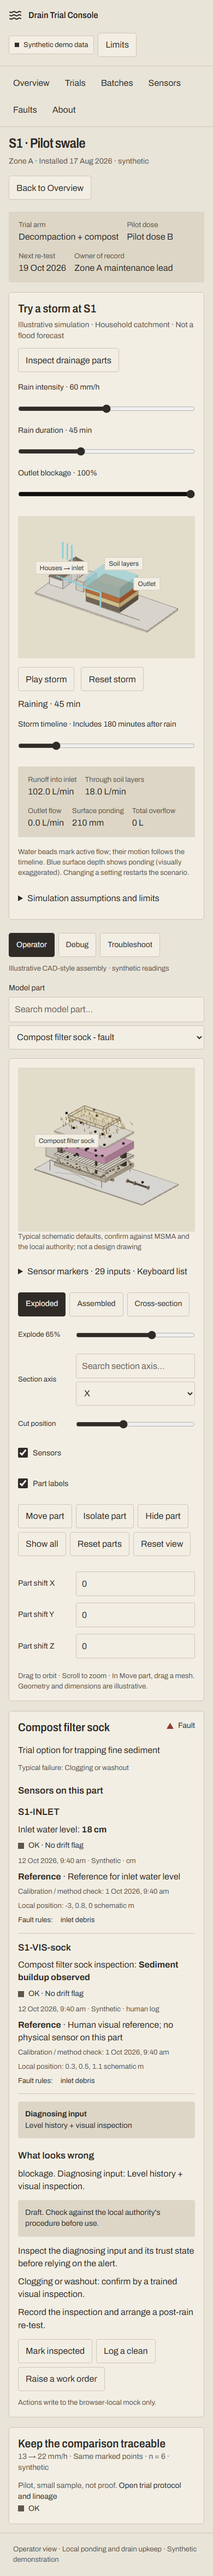
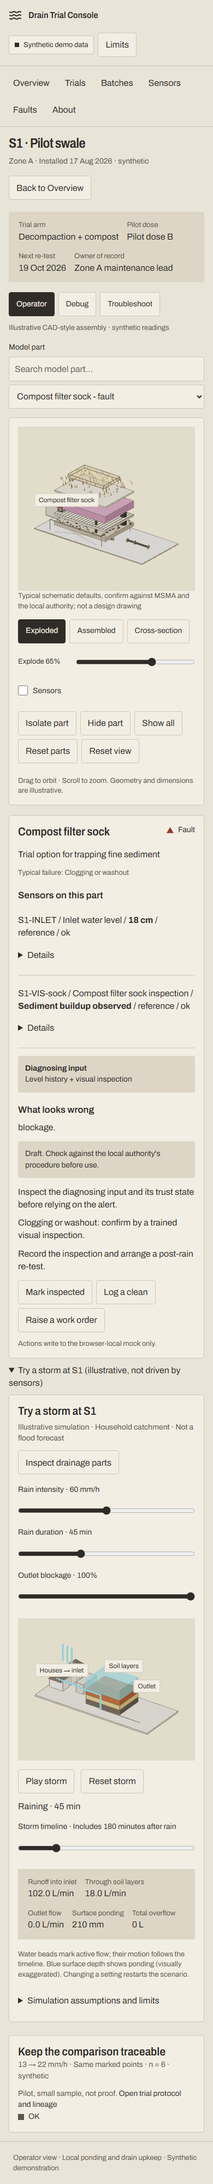
Lead detail pages with parts and simplify Operator controls

diff --git a/app/src/components/ModelControls.tsx b/app/src/components/ModelControls.tsx
@@ -1,4 +1,3 @@
-import SearchableSelect from './SearchableSelect';
 import type { Dispatch, SetStateAction } from 'react';
 import type { PartId } from '../api/types';
 import type { Assembly, Offsets, ViewMode } from '../three/DrainScene';
@@ -10,8 +9,8 @@ export interface ControlProps {
   setAssembly: Dispatch<SetStateAction<Assembly>>;
   explode: number;
   setExplode: Dispatch<SetStateAction<number>>;
-  cutAxis: 'X' | 'Z';
-  setCutAxis: Dispatch<SetStateAction<'X' | 'Z'>>;
+  cutAxis: 'X' | 'Y' | 'Z';
+  setCutAxis: Dispatch<SetStateAction<'X' | 'Y' | 'Z'>>;
   cutPosition: number;
   setCutPosition: Dispatch<SetStateAction<number>>;
   offsets: Offsets;
@@ -90,21 +89,7 @@ export function AssemblyControls({
           }}
         />
       </div>
-      <div className="field">
-        <label htmlFor="cut-axis">Section axis</label>
-        <SearchableSelect
-          label="Section axis"
-          id="cut-axis"
-          value={cutAxis}
-          onChange={(e) => {
-            setCutAxis(e.target.value as 'X' | 'Z');
-            setAssembly('section');
-          }}
-        >
-          <option>X</option>
-          <option>Z</option>
-        </SearchableSelect>
-      </div>
+      {mode === 'Debug' && <><div className="field"><span>Section axis</span><div className="segments" aria-label="Section axis">{(['X', 'Y', 'Z'] as const).map(axis => <button key={axis} aria-pressed={cutAxis === axis} onClick={() => { setCutAxis(axis); setAssembly('section'); }}>{axis}</button>)}</div></div>
       <div className="field">
         <label htmlFor="cut-position">Cut position</label>
         <input
@@ -121,6 +106,7 @@ export function AssemblyControls({
           }}
         />
       </div>
+      </>}
       <label className="check">
         <input
           type="checkbox"
@@ -129,10 +115,10 @@ export function AssemblyControls({
         />
         Sensors
       </label>
-      <label className="check">
+      {mode === 'Debug' && <label className="check">
         <input type="checkbox" checked={labels} onChange={(e) => setLabels(e.target.checked)} />
         Part labels
-      </label>
+      </label>}
       {mode === 'Debug' && (
         <div className="inline">
           <label className="check">
@@ -154,6 +140,7 @@ export function AssemblyControls({
   );
 }
 export function PartControls({
+  mode,
   selected,
   offsets,
   setOffsets,
@@ -168,9 +155,9 @@ export function PartControls({
     <>
       {' '}
       <div className="actions">
-        <button aria-pressed={move} onClick={() => setMove(!move)}>
+        {mode === 'Debug' && <button aria-pressed={move} onClick={() => setMove(!move)}>
           Move part
-        </button>
+        </button>}
         <button aria-pressed={isolate} onClick={() => setIsolate(!isolate)}>
           Isolate part
         </button>
@@ -194,7 +181,7 @@ export function PartControls({
         </button>
         <button onClick={() => setReset((v) => v + 1)}>Reset view</button>
       </div>
-      <div className="coordinate-grid">
+      {mode === 'Debug' && <div className="coordinate-grid">
         {(['X', 'Y', 'Z'] as const).map((axis, i) => (
           <label className="field" key={axis}>
             Part shift {axis}
@@ -215,9 +202,9 @@ export function PartControls({
             />
           </label>
         ))}
-      </div>
+      </div>}
       <p className="scene-caption">
-        Drag to orbit · Scroll to zoom · In Move part, drag a mesh. Geometry and dimensions are
+        Drag to orbit · Scroll to zoom. Geometry and dimensions are
         illustrative.
       </p>
     </>

diff --git a/app/src/components/ModelWorkspace.tsx b/app/src/components/ModelWorkspace.tsx
@@ -25,14 +25,14 @@ export default function ModelWorkspace({
   kind?: 'drainage' | 'compost';
 }) {
   const [params] = useSearchParams();
-  const [showSensors, setShowSensors] = useState(true);
+  const [showSensors, setShowSensors] = useState(false);
   const [partSearch, setPartSearch] = useState('');
   const select = useSelection((s) => s.selectPart),
     selected = useSelection((s) => s.partId);
   const [mode, setMode] = useState<ViewMode>('Operator'),
     [assembly, setAssembly] = useState<Assembly>('exploded'),
     [explode, setExplode] = useState(65),
-    [cutAxis, setCutAxis] = useState<'X' | 'Z'>('X'),
+    [cutAxis, setCutAxis] = useState<'X' | 'Y' | 'Z'>('X'),
     [cutPosition, setCutPosition] = useState(0),
     [offsets, setOffsets] = useState<Offsets>({}),
     [move, setMove] = useState(false),
@@ -91,7 +91,7 @@ export default function ModelWorkspace({
       <div className="panel-heading">
         <div className="segments">
           {(['Operator', 'Debug', 'Troubleshoot'] as const).map((value) => (
-            <button key={value} aria-pressed={mode === value} onClick={() => setMode(value)}>
+            <button key={value} aria-pressed={mode === value} onClick={() => { setMode(value); setShowSensors(value === 'Debug'); setMove(false); }}>
               {value}
             </button>
           ))}
@@ -158,7 +158,7 @@ export default function ModelWorkspace({
             onMove={(partId, position) =>
               setOffsets((previous) => ({ ...previous, [partId]: position }))
             }
-            move={move}
+            move={mode === 'Debug' && move}
             isolate={isolate}
             hidden={hidden}
             labels={labels}
@@ -167,7 +167,7 @@ export default function ModelWorkspace({
             reset={reset}
           />
           <p className="small">{config.schematic.label}</p>
-          {showSensors && <SensorPositions sensors={sensorMarkers(sensors)} />}
+          {showSensors && <SensorPositions showPositions={mode === 'Debug'} sensors={sensorMarkers(sensors).filter(s => mode === 'Debug' || s.partId === selected)} />}
           <div className="part-settings">
             <AssemblyControls {...controlProps} />
             <PartControls {...controlProps} />

diff --git a/app/src/components/SensorInfo.tsx b/app/src/components/SensorInfo.tsx
@@ -6,7 +6,7 @@ export function SensorTrust({ sensor }: { sensor: Sensor }) {
     <span className="status">
       <span
         aria-hidden="true"
-        className={`status-mark ${sensor.status === 'suspect' ? 'fault' : sensor.status === 'offline' ? 'offline' : 'ok'}`}
+        className={`status-mark ${sensor.status === 'suspect' || sensor.status === 'offline' ? 'offline' : 'ok'}`}
       />
       {sensor.status === 'suspect' ? 'Suspect' : sensor.status === 'offline' ? 'Offline' : 'OK'} ·{' '}
       {sensor.drift === 'none' ? 'No drift flag' : `${sensor.drift} drift`}
@@ -25,7 +25,8 @@ export function SensorValue({ sensor }: { sensor: Sensor }) {
     </>
   );
 }
-export default function SensorInfo({ sensor }: { sensor: Sensor }) {
+export default function SensorInfo({ sensor, compact = false, showPosition = true }: { sensor: Sensor; compact?: boolean; showPosition?: boolean }) {
+  if (compact) return <div className="sensor-info compact-sensor" data-sensor-row={sensor.sensorId}><p><Link to={`/sensors?sensor=${encodeURIComponent(sensor.sensorId)}`}>{sensor.sensorId}</Link> / {sensor.metric} / <strong><SensorValue sensor={sensor} /></strong> / {sensor.role} / {sensor.status}</p><details><summary>Details</summary><SensorInfo sensor={sensor} showPosition={showPosition} /></details></div>;
   return (
     <div className="sensor-info" data-sensor-row={sensor.sensorId}>
       <h3>
@@ -45,10 +46,10 @@ export default function SensorInfo({ sensor }: { sensor: Sensor }) {
         <strong>{sensor.role === 'proxy' ? 'Proxy' : 'Reference'}</strong> · {sensor.proxyFor}
       </p>
       <p className="small">Calibration / method check: {dateTime(sensor.calibratedAt)}</p>
-      <p className="small">
+      {showPosition && <p className="small">
         Local position: {Number(sensor.location.x.toFixed(2))},{' '}
         {Number(sensor.location.y.toFixed(2))}, {Number(sensor.location.z.toFixed(2))} schematic m
-      </p>
+      </p>}
       <div className="sensor-rule-links">
         Fault rules:{' '}
         {sensor.usedByRules.map((rule) => (

diff --git a/app/tests/fix-round.spec.ts b/app/tests/fix-round.spec.ts
@@ -1,0 +1,25 @@
+import { test, expect } from '@playwright/test';
+test('attention order and operator controls', async ({ page }) => {
+  await page.setViewportSize({ width: 360, height: 900 });
+  await page.goto('/');
+  await expect(page.getByRole('heading', { name: 'Overview', exact: true })).toBeVisible();
+  const faults = await page.locator('.attention-faults').boundingBox();
+  const map = await page.locator('.overview-map').boundingBox();
+  expect(faults!.y).toBeLessThan(map!.y);
+  await expect(page.getByRole('combobox', { name: 'Select a house', exact: true })).toHaveCount(1);
+  await expect(page.locator('.map-zones button')).toHaveCount(4);
+  await page.goto('/feature/S1');
+  await expect(page.locator('.cad-scene')).toBeVisible();
+  expect(await page.locator('.storm-disclosure').getAttribute('open')).toBeNull();
+  const model = await page.locator('.cad-scene').boundingBox();
+  const storm = await page.locator('.storm-disclosure').boundingBox();
+  expect(model!.y).toBeLessThan(storm!.y);
+  await expect(page.getByRole('button', { name: 'Move part', exact: true })).toHaveCount(0);
+  await expect(page.getByLabel('Part shift X', { exact: true })).toHaveCount(0);
+  await expect(page.getByLabel('Sensors', { exact: true })).not.toBeChecked();
+  await expect(page.locator('.detail-readings')).not.toContainText('Local position:');
+  await page.getByRole('button', { name: 'Debug', exact: true }).click();
+  await expect(page.getByLabel('Part shift X', { exact: true })).toBeVisible();
+  await page.getByRole('button', { name: 'Y', exact: true }).click();
+  await expect(page.getByRole('button', { name: 'Y', exact: true })).toHaveAttribute('aria-pressed', 'true');
+});

diff --git a/app/src/three/DrainScene.tsx b/app/src/three/DrainScene.tsx
@@ -22,7 +22,7 @@ export interface Props {
   mode: ViewMode;
   assembly: Assembly;
   explode: number;
-  cutAxis: 'X' | 'Z';
+  cutAxis: 'X' | 'Y' | 'Z';
   cutPosition: number;
   offsets: Offsets;
   onMove: (id: PartId, position: [number, number, number]) => void;
@@ -78,7 +78,7 @@ function Model(props: Props) {
     controls = useRef<ComponentRef<typeof OrbitControls>>(null);
   const e = props.assembly === 'exploded' ? props.explode / 100 : 0;
   useEffect(() => {
-    plane.normal.set(props.cutAxis === 'X' ? -1 : 0, 0, props.cutAxis === 'Z' ? -1 : 0);
+    plane.normal.set(props.cutAxis === 'X' ? -1 : 0, props.cutAxis === 'Y' ? -1 : 0, props.cutAxis === 'Z' ? -1 : 0);
     plane.constant = props.cutPosition;
     props.parts.forEach((part) => {
       groups[part.partId]?.traverse((object) => {
@@ -151,7 +151,7 @@ function Model(props: Props) {
                 select(id);
               }}
             />
-            {props.showSensors && part.installed && (
+            {props.showSensors && part.installed && (props.mode === 'Debug' || selected === id) && (
               <SensorMarkers
                 sensors={sensorMarkers(props.sensors).filter((s) => s.partId === id)}
               />

diff --git a/app/src/components/SensorPositions.tsx b/app/src/components/SensorPositions.tsx
@@ -1,7 +1,7 @@
 import { Link } from 'react-router-dom';
 import type { Sensor } from '../api/types';
 import { SensorTrust } from './SensorInfo';
-export default function SensorPositions({ sensors }: { sensors: Sensor[] }) {
+export default function SensorPositions({ sensors, showPositions = true }: { sensors: Sensor[]; showPositions?: boolean }) {
   return (
     <details className="sensor-positions">
       <summary>Sensor markers · {sensors.length} inputs · Keyboard list</summary>
@@ -16,7 +16,7 @@ export default function SensorPositions({ sensors }: { sensors: Sensor[] }) {
             <SensorTrust sensor={s} />
             <span className="small">
               {' '}
-              · {s.metric} · position {s.location.x}, {s.location.y}, {s.location.z} m
+              · {s.metric} {showPositions && ` / position ${s.location.x}, ${s.location.y}, ${s.location.z} m`}
             </span>
           </li>
         ))}

diff --git a/app/src/components/PartPanel.tsx b/app/src/components/PartPanel.tsx
@@ -32,7 +32,7 @@ export default function PartPanel({
       <p className="small">Typical failure: {part.typicalFailure}</p>
       <h3 style={{ marginTop: 20 }}>Sensors on this part</h3>
       {sensors.map((s) => (
-        <SensorInfo key={s.sensorId} sensor={s} />
+        <SensorInfo key={s.sensorId} sensor={s} compact showPosition={mode === 'Debug'} />
       ))}
       {!sensors.length && (
         <p className="small">
@@ -75,7 +75,7 @@ export default function PartPanel({
         </p>
       )}
       <h3 style={{ marginTop: 20 }}>What looks wrong</h3>
-      <p style={{ marginTop: 8 }}>{part.issue}</p>
+      <p style={{ marginTop: 8 }}>{part.issue?.split('Diagnosing input:')[0]}</p>
       {part.steps?.length && (
         <>
           <div className="notice">

diff --git a/app/src/pages/FeatureDetail.tsx b/app/src/pages/FeatureDetail.tsx
@@ -60,7 +60,6 @@ export default function FeatureDetail() {
               {data.trial?.owner?.name || data.feature.ownerOfRecord}
             </div>
           </div>
-          {id === 'S1' && <StormPreview />}
           <div id="drain-assembly" />
           <ModelWorkspace
             ownerId={id}
@@ -69,6 +68,7 @@ export default function FeatureDetail() {
             config={data.config}
             faults={data.faults}
           />
+          {id === 'S1' && <details className="storm-disclosure"><summary>Try a storm at S1 (illustrative, not driven by sensors)</summary><StormPreview /></details>}
           {data.trial && (
             <section className="panel" style={{ marginTop: 18 }}>
               <h2>Keep the comparison traceable</h2>

diff --git a/app/tests/storm.spec.ts b/app/tests/storm.spec.ts
@@ -3,6 +3,7 @@ test('S1 storm controls, water response and responsive preview', async ({ page }
   const errors: string[] = [];
   page.on('pageerror', (e) => errors.push(e.message));
   await page.goto('/feature/S1');
+  await page.locator('.storm-disclosure > summary').click();
   await expect(page.getByRole('heading', { name: 'Try a storm at S1' })).toBeVisible();
   await page.getByRole('slider', { name: 'Storm timeline', exact: true }).fill('180');
   const clear = Number((await page.getByTestId('ponding').innerText()).replace(' mm', ''));

diff --git a/app/tests/console.spec.ts b/app/tests/console.spec.ts
@@ -33,7 +33,8 @@ test('operator flow: selectable parts, explode and guarded baseline', async ({ p
 
   await page.getByRole('button', { name: 'Cross-section', exact: true }).click();
 
-  await page.getByLabel('Section axis', { exact: true }).selectOption('Z');
+  await page.getByRole('button', { name: 'Debug', exact: true }).click();
+  await page.getByRole('button', { name: 'Z', exact: true }).click();
 
   await page.locator('.part-list').getByRole('button', { name: 'Compost filter sock' }).click();
 
